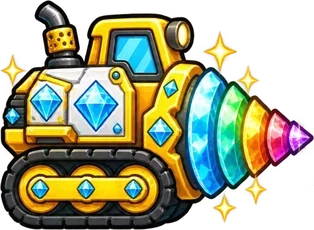
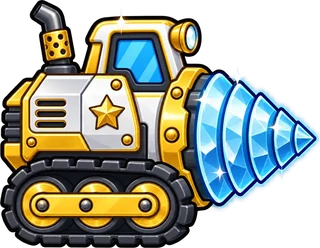
Легендарный бур — платиновый с алмазным наконечником; «Коллекция» и «Настройки» открываются с титульного экрана
Claude-Session: https://claude.ai/code/session_01CSnH6HYeHyTiivzoUBhkHu

diff --git a/game.js b/game.js
@@ -1263,6 +1263,8 @@ function useCons(k) {
 
 // ---------- База ----------
 function openSheet(title, html) {
+  // с титульного экрана панель должна быть поверх него (иначе «Коллекция» и «Настройки» открываются под заставкой)
+  $('sheet').classList.toggle('ontop', !$('title').classList.contains('hidden'));
   $('sheetTitle').textContent = title; $('sheetBody').innerHTML = html; $('sheet').classList.remove('hidden'); paused = true;
 }
 function closeSheet() { $('sheet').classList.add('hidden'); paused = false; save(true); }
@@ -1646,7 +1648,7 @@ function finale() {
     const f = $('finale'); f.classList.remove('hidden'); paused = true; finT = 0; finCars = []; finFx = [];
     const mins = Math.round(S.stats.playTime / 60);
     $('finBody').innerHTML = `<div class="fhead"><img src="assets/fin/medal.webp" alt=""><div><h2>Тоннель до Америки проложен!</h2><p>Чукотка и Аляска соединены. По тоннелю уже поехали первые машины.</p></div></div>
-      <div class="frew"><img src="assets/drill_legend.webp" alt=""><div><b>Эксклюзив: легендарный бур</b><span>Радужный алмазный бур — только у тех, кто дошёл до конца. Копает мощнее любого другого.</span></div></div>
+      <div class="frew"><img src="assets/drill_legend.webp" alt=""><div><b>Эксклюзив: легендарный бур</b><span>Платиновый бур с алмазным наконечником — только у тех, кто дошёл до конца. Копает мощнее любого другого.</span></div></div>
       <div class="frew"><img src="assets/fin/infinity.webp" alt=""><div><b>Бесконечный режим открыт</b><span>Без уровней и стен. Под проливом спрятаны три древних сокровища, разбитых на осколки, — найди их все. Руда и алмазы появляются снова.</span></div></div>
       <div class="fstats"><div><b>${mins}</b><span>минут</span></div><div><b>${S.stats.diamonds}</b><span>алмазов</span></div><div><b>${S.stats.delivered}</b><span>находок</span></div><div><b>${S.stats.accidents}</b><span>аварий</span></div></div>
       <div class="ftitle">Звание: <b>${titleFor()}</b></div>

diff --git a/game.en.js b/game.en.js
@@ -1265,6 +1265,8 @@ function useCons(k) {
 
 // ---------- База ----------
 function openSheet(title, html) {
+  // с титульного экрана панель должна быть поверх него (иначе «Коллекция» и «Настройки» открываются под заставкой)
+  $('sheet').classList.toggle('ontop', !$('title').classList.contains('hidden'));
   $('sheetTitle').textContent = title; $('sheetBody').innerHTML = html; $('sheet').classList.remove('hidden'); paused = true;
 }
 function closeSheet() { $('sheet').classList.add('hidden'); paused = false; save(true); }
@@ -1648,7 +1650,7 @@ function finale() {
     const f = $('finale'); f.classList.remove('hidden'); paused = true; finT = 0; finCars = []; finFx = [];
     const mins = Math.round(S.stats.playTime / 60);
     $('finBody').innerHTML = `<div class="fhead"><img src="assets/fin/medal.webp" alt=""><div><h2>The tunnel to America is complete!</h2><p>Chukotka and Alaska are connected. The first vehicles are already driving through.</p></div></div>
-      <div class="frew"><img src="assets/drill_legend.webp" alt=""><div><b>Exclusive: legendary drill</b><span>A rainbow diamond drill — only for those who made it to the end. Digs harder than any other.</span></div></div>
+      <div class="frew"><img src="assets/drill_legend.webp" alt=""><div><b>Exclusive: legendary drill</b><span>A platinum drill with a diamond tip — only for those who made it to the end. Digs harder than any other.</span></div></div>
       <div class="frew"><img src="assets/fin/infinity.webp" alt=""><div><b>Endless mode unlocked</b><span>No levels, no walls. Three ancient treasures, broken into shards, are hidden under the strait — find them all. Ore and diamonds keep coming back.</span></div></div>
       <div class="fstats"><div><b>${mins}</b><span>minutes</span></div><div><b>${S.stats.diamonds}</b><span>diamonds</span></div><div><b>${S.stats.delivered}</b><span>finds</span></div><div><b>${S.stats.accidents}</b><span>crashes</span></div></div>
       <div class="ftitle">Rank: <b>${titleFor()}</b></div>

diff --git a/index.html b/index.html
@@ -344,6 +344,7 @@ button{font:inherit;color:inherit;border:0;cursor:pointer}
 #menuBtn span{font-size:9.5px;font-weight:800;line-height:1;color:#e8f2f7}
 .btn .mi{height:26px;width:auto;vertical-align:middle;margin:-6px 8px -4px 0;filter:drop-shadow(0 2px 2px rgba(0,0,0,.35))}
 .langsw{display:flex;gap:6px}
+.sheet.ontop{z-index:36}
 </style>
 </head>
 <body>
@@ -411,7 +412,7 @@ button{font:inherit;color:inherit;border:0;cursor:pointer}
 <div id="dialog" class="hidden"><div class="dl"><img alt=""><div class="bub"><small></small><span></span><i class="tap">нажми, чтобы продолжить ›</i></div></div></div>
 <div id="finale" class="screen hidden" style="background:#0b1620"><canvas id="finc"></canvas><div class="body" id="finBody" style="padding:12px 14px calc(var(--sab) + 16px);overflow:auto;flex:1;touch-action:pan-y"></div></div>
 
-<script>window.GAME_V = 23;</script>
+<script>window.GAME_V = 24;</script>
 <script>
 /* Язык: выбранный в настройках, иначе язык Telegram (русский для RU/СНГ, английский для остальных) */
 (function () {

diff --git a/i18n/extra.py b/i18n/extra.py
@@ -6,4 +6,5 @@ EXTRA = {
     'Бур 3, Корпус 2': 'Drill 3, Hull 2',
     'Бур 4, Привод 3': 'Drill 4, Drive 3',
     '⭐ Премия бригаде: +400 🪙': '⭐ Crew bonus: +400 🪙',
+    'Платиновый бур с алмазным наконечником — только у тех, кто дошёл до конца. Копает мощнее любого другого.': 'A platinum drill with a diamond tip — only for those who made it to the end. Digs harder than any other.',
 }
